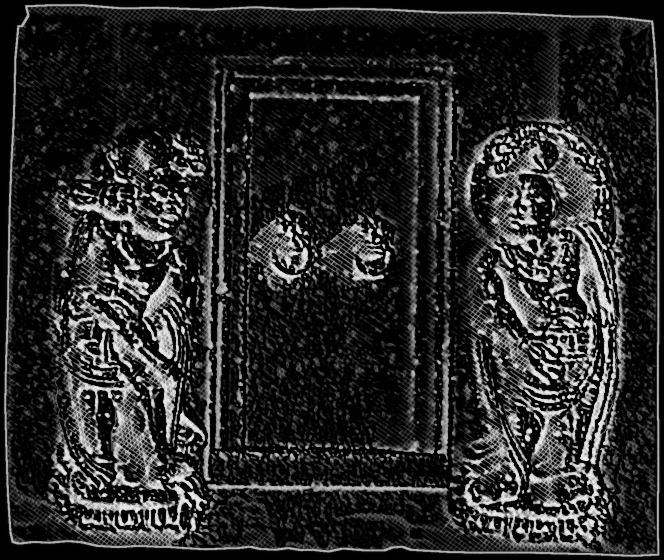
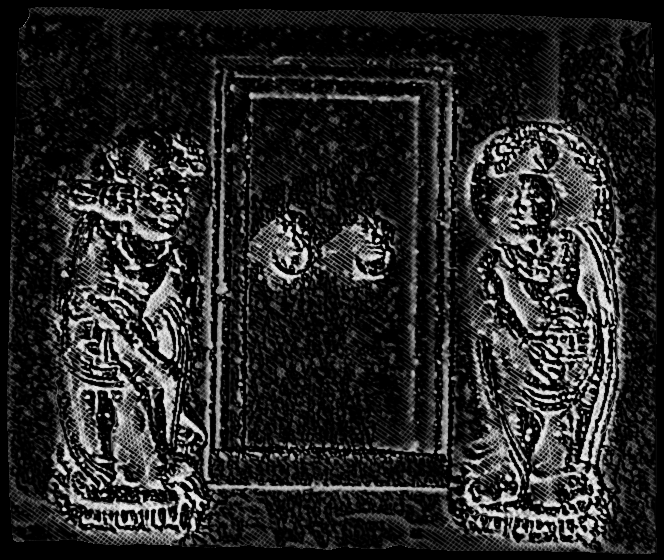
호 쪽 머리 소묘에서 바깥 외곽선을 지움 (v0.19)
면석 둘레의 3픽셀 외곽선만 지우고 안쪽 그림과 바닥선은 그대로 둔다.

Claude-Session: https://claude.ai/code/session_01NRr4ezLS8qzcNE8nk3L117

Changed region(s): [[0.1205, 0.0304, 0.994, 1.0], [0.0, 0.0607, 0.1205, 0.9714], [0.0301, 0.0, 0.9036, 0.0304]]

diff --git a/issues/2026-11.html b/issues/2026-11.html
@@ -692,7 +692,7 @@
 <footer>
 <p>본문은 AI(Claude)가 공개된 서지와 초록을 바탕으로 엮었습니다. 요지는 원문을 대신하지 않으니, 인용하기 전에 원문을 확인해 주십시오.</p>
 <p>‘초록만 확인’은 본문을 보지 못하고 초록으로 쓴 요지, ‘목차만 확인’은 목차에서 서지만 확인한 문헌, ‘서지 검증 필요’는 원문 DB에서 서지를 끝까지 대조하지 못한 문헌, ‘본문 미확인’은 책을 보지 못하고 출판사 소개 등으로 쓴 신간, ‘원제 미확인’은 한국어 원제를 찾지 못해 영문 제목으로 실은 국내 논문입니다.</p>
-<p>엮은 모델: Claude Fable 5.2 (claude-fable-5-2) | 운영자: 한재원 | v0.18 · 2026-11-12</p>
+<p>엮은 모델: Claude Fable 5.2 (claude-fable-5-2) | 운영자: 한재원 | v0.19 · 2026-11-12</p>
 <p><a href="../">답도 첫 화면</a></p>
 </footer>
 <script src="../assets/mast.js"></script>

diff --git a/index.html b/index.html
@@ -49,7 +49,7 @@
 <footer>
 <p>답도(踏道)는 불교미술·미술사·문화유산 분야의 새 논문과 책을 두 달마다 정리하는 웹진입니다.</p>
 <p>본문은 AI(Claude)가 공개된 서지와 초록을 바탕으로 엮습니다. 요지는 원문을 대신하지 않으니, 인용하기 전에 원문을 확인해 주십시오.</p>
-<p>운영자: 한재원<!--ver:start--> | v0.18 · 2026-11-12<!--ver:end--></p>
+<p>운영자: 한재원<!--ver:start--> | v0.19 · 2026-11-12<!--ver:end--></p>
 </footer>
 <script src="assets/home.js"></script>
 </body>
